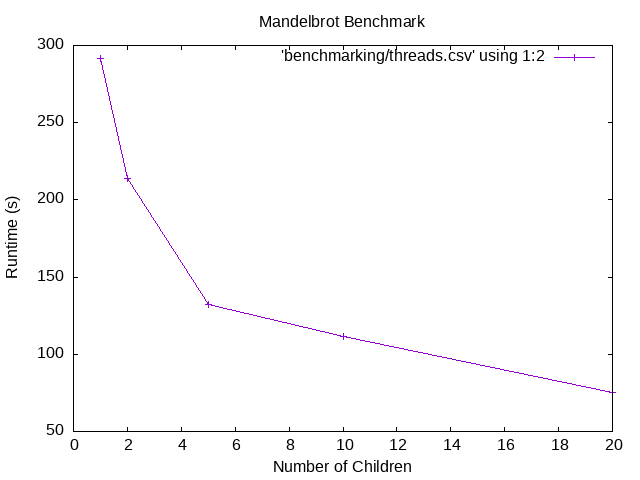
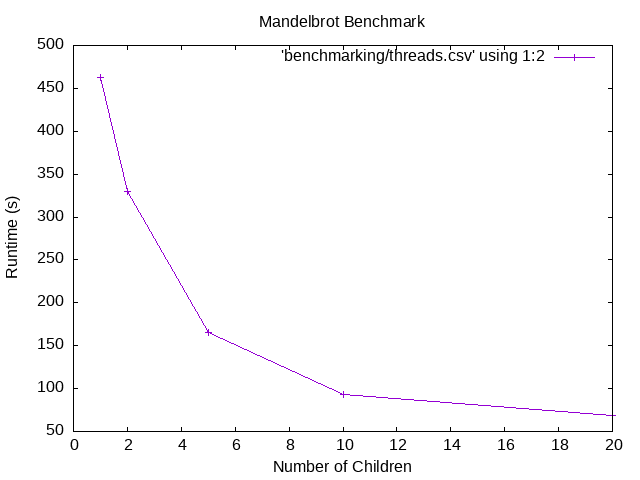
add benchmarking for all combos

diff --git a/labs/lab11-12/multiprocessing/benchmark.c b/labs/lab11-12/multiprocessing/benchmark.c
@@ -18,9 +18,14 @@
 
 static void benchmark_children();
 static void benchmark_threads();
-static void benchmark(int mode, char *benchmarkfile);
+static void benchmark_loop();
+static void benchmark(int mode, int num_children, int num_threads,
+                      char *benchmarkfile);
 static void graph(char *outfile);
 static void graph_both(char *outfile);
+static void graph_all();
+
+const int benchmark_values[] = {1, 2, 5, 10, 20};
 
 int main(int argc, char *argv[]) {
   if (argc != 2) {
@@ -35,6 +40,9 @@ int main(int argc, char *argv[]) {
     benchmark_children();
   } else if (mode == 2) {
     benchmark_threads();
+  } else if (mode == 3) {
+    // benchmark_loop();
+    graph_all();
   } else {
     fprintf(stderr, "Invalid mode\n");
     exit(1);
@@ -43,16 +51,65 @@ int main(int argc, char *argv[]) {
   return 0;
 }
 
+void benchmark_loop() {
+  for (int i = 0; i < 5; i++) {
+    int value = benchmark_values[i];
+    char children_filename[256];
+    char threads_filename[256];
+    sprintf(children_filename, "benchmarking/children_%d", i);
+    sprintf(threads_filename, "benchmarking/threads_%d", i);
+
+    benchmark(1, value, 1, children_filename);
+    benchmark(2, 1, value, threads_filename);
+  }
+}
+
+void graph_all() {
+  printf("Graphing all results to %s.png\n", "benchmarking/all");
+  // Use gnuplot to graph the results using cmd line commands
+  FILE *fp = popen("gnuplot", "w");
+  if (fp == NULL) {
+    perror("popen");
+    exit(1);
+  }
+
+  fprintf(fp, "set terminal png\n");                        // file type png
+  fprintf(fp, "set output 'benchmarking/all.png'\n");       // file name
+  fprintf(fp, "set title 'Mandelbrot Benchmark All'\n");    // title
+  fprintf(fp, "set xlabel 'Number of Children/Threads'\n"); // x-axis label
+  fprintf(fp, "set ylabel 'Runtime (s)'\n");                // y-axis label
+  fprintf(fp, "set datafile separator ','\n"); // csv file separator
+  fprintf(fp, "plot ");
+  for (int i = 0; i < 5; i++) {
+    fprintf(fp,
+            "'benchmarking/children_%d.csv' using 1:2 with linespoints title "
+            "'%d Thread(s)', ",
+            i, benchmark_values[i]);
+    fprintf(fp,
+            "'benchmarking/threads_%d.csv' using 1:2 with linespoints title "
+            "'%d Child(ren)'",
+            i, benchmark_values[i]);
+    if (i < 4) {
+      fprintf(fp, ", ");
+    }
+  }
+  fprintf(fp, "\n");
+  fprintf(fp, "quit\n");
+
+  pclose(fp);
+}
+
 void benchmark_children() {
-  benchmark(1, "benchmarking/children");
+  benchmark(1, 1, 1, "benchmarking/children");
   graph("benchmarking/children");
 }
 void benchmark_threads() {
-  benchmark(2, "benchmarking/threads");
+  benchmark(2, 1, 1, "benchmarking/threads");
   graph("benchmarking/threads");
 }
 
-void benchmark(int mode, char *benchmarkfile) {
+void benchmark(int mode, int num_children, int num_threads,
+               char *benchmarkfile) {
   int benchmark_values[] = {1, 2, 5, 10, 20};
 
   // Number of values in the benchmark_values array
@@ -65,8 +122,6 @@ void benchmark(int mode, char *benchmarkfile) {
   int image_width = 1000;
   int image_height = 1000;
   int max = 1000;
-  int num_children = 1;
-  int num_threads = 1;
 
   int yscale = xscale * image_height / image_width;
   // *****************************************************
